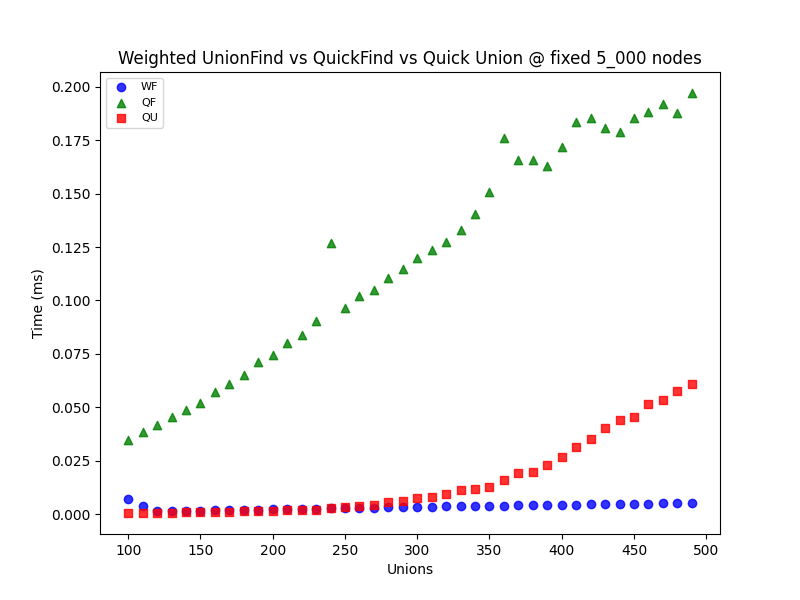
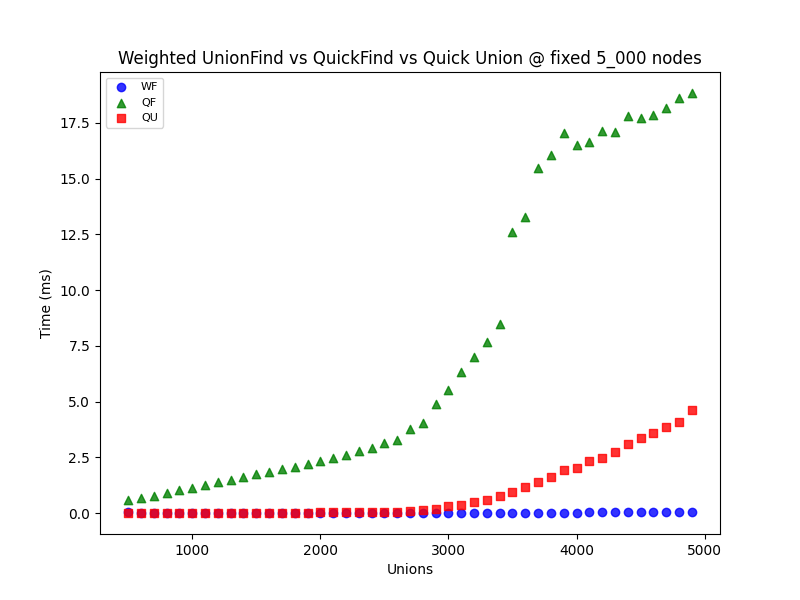
cool shit

diff --git a/A01/src/race/qfFixedRace.java b/A01/src/race/qfFixedRace.java
@@ -34,15 +34,15 @@ public class qfFixedRace {
         
         
         Plotter<Integer, Double> pltWF = new Plotter<>("uf/WUF_"+SIZE+".png", "Unions", "Time (ms)", plt.getType(),"Weighted Union Find @ fixed "+SIZE+" nodes");
-        Double[] times = runWF(SIZE, STEPS, START, unions,pltWF);
+        Double[] times = runWF(SIZE, unions, pltWF);
         plt.add(unions, times, "WF");
 
         Plotter<Integer, Double> pltQF = new Plotter<>("uf/QF_"+SIZE+".png", "Unions", "Time (ms)", plt.getType(),"Quick Find @ fixed "+SIZE+" nodes");
-        times = runQF(SIZE, STEPS, START, unions, pltQF);
+        times = runQF(SIZE, unions, pltQF);
         plt.add(unions, times, "QF");
 
         Plotter<Integer, Double> pltQU = new Plotter<>("uf/QU_"+SIZE+".png", "Unions", "Time (ms)", plt.getType(),"Quick Union @ fixed "+SIZE+" nodes");
-        times = runQU(SIZE, STEPS, START, unions, pltQU);
+        times = runQU(SIZE,unions, pltQU);
         plt.add(unions, times, "QU");
 
         plt.plot();
@@ -64,12 +64,12 @@ public class qfFixedRace {
         System.out.println("\nGraphing Weighted Union Find versus Quick Find at fixed sized "+SIZE+" for varying numbers of Unions");
         
         
-        Plotter<Integer, Double> pltWF = new Plotter<>("uf/WUF_"+SIZE+".png", "Unions", "Time (ms)", plt.getType(),"Weighted Union Find @ fixed "+SIZE+" nodes");
-        Double[] times = runWF(SIZE, STEPS, START, unions,pltWF);
+        Plotter<Integer, Double> pltWF = new Plotter<>("uf/WUF_"+SIZE+".png", "Unions", "Time (ms)", Plotter.Type.LINEAR,"Weighted Union Find @ fixed "+SIZE+" nodes");
+        Double[] times = runWF(SIZE, unions, pltWF);
         plt.add(unions, times, "WF");
 
-        Plotter<Integer, Double> pltQF = new Plotter<>("uf/QF_"+SIZE+".png", "Unions", "Time (ms)", plt.getType(),"Quick Find @ fixed "+SIZE+" nodes");
-        times = runQF(SIZE, STEPS, START, unions,pltQF);
+        Plotter<Integer, Double> pltQF = new Plotter<>("uf/QF_"+SIZE+".png", "Unions", "Time (ms)", Plotter.Type.NONE,"Quick Find @ fixed "+SIZE+" nodes");
+        times = runQF(SIZE, unions, pltQF);
         plt.add(unions, times, "QF");
 
         plt.plot();
@@ -90,12 +90,12 @@ public class qfFixedRace {
         System.out.println("\nGraphing Weighted Union Find versus Quick Find at fixed sized "+SIZE+" for varying numbers of Unions");
         
         
-        Plotter<Integer, Double> pltQU = new Plotter<>("uf/QU_"+SIZE+".png", "Unions", "Time (ms)", plt.getType(),"Quick Union @ fixed "+SIZE+" nodes");
-        Double[] times = runQU(SIZE, STEPS, START, unions,pltQU);
+        Plotter<Integer, Double> pltQU = new Plotter<>("uf/QU_"+SIZE+".png", "Unions", "Time (ms)", Plotter.Type.NONE,"Quick Union @ fixed "+SIZE+" nodes");
+        Double[] times = runQU(SIZE, unions, pltQU);
         plt.add(unions, times, "QU");
 
-        Plotter<Integer, Double> pltQF = new Plotter<>("uf/QF_"+SIZE+".png", "Unions", "Time (ms)", plt.getType(),"Quick Find @ fixed "+SIZE+" nodes");
-        times = runQF(SIZE, STEPS, START, unions,pltQF);
+        Plotter<Integer, Double> pltQF = new Plotter<>("uf/QF_"+SIZE+".png", "Unions", "Time (ms)", Plotter.Type.NONE,"Quick Find @ fixed "+SIZE+" nodes");
+        times = runQF(SIZE, unions, pltQF);
         plt.add(unions, times, "QF");
 
         plt.plot();
@@ -117,17 +117,17 @@ public class qfFixedRace {
         
         
         Plotter<Integer, Double> pltQU = new Plotter<>("uf/QU_"+SIZE+".png", "Unions", "Time (ms)", plt.getType(),"Quick Union @ fixed "+SIZE+" nodes");
-        Double[] times = runQU(SIZE, STEPS, START, unions,pltQU);
+        Double[] times = runQU(SIZE, unions, pltQU);
         plt.add(unions, times, "QU");
 
         Plotter<Integer, Double> pltWF = new Plotter<>("uf/WUF_"+SIZE+".png", "Unions", "Time (ms)", plt.getType(),"Weighted Union Find @ fixed "+SIZE+" nodes");
-        times = runWF(SIZE, STEPS, START, unions,pltWF);
+        times = runWF(SIZE, unions,pltWF);
         plt.add(unions, times, "WF");
 
         plt.plot();
     }
 
-    private Double[] runWF(int SIZE, int STEPS, int START, Integer[] unions, Plotter<Integer,Double> plt) {
+    private Double[] runWF(int SIZE, Integer[] unions, Plotter<Integer,Double> plt) {
 
         System.out.println("\nGraphing Weighted Union Find at fixed sized "+SIZE+" for varying numbers of Unions");
         
@@ -141,7 +141,7 @@ public class qfFixedRace {
         return times;
     }
 
-    private Double[] runQF(int SIZE, int STEPS, int START, Integer[] unions, Plotter<Integer,Double> plt) {
+    private Double[] runQF(int SIZE, Integer[] unions, Plotter<Integer,Double> plt) {
 
         System.out.println("\nGraphing Quick Find at fixed sized "+SIZE+" for varying numbers of Unions");
         
@@ -155,24 +155,31 @@ public class qfFixedRace {
         return times;
     }
 
-    private Double[] runQU(int SIZE, int STEPS, int START, Integer[] unions, Plotter<Integer,Double> plt) {
+    public Double[] runQUSubplot(int SIZE, int STEPS, int START, Plotter<Integer,Double> plt) {
+        this.START = START;
+        this.STEPS = STEPS;
+        this.SIZE = SIZE;
+        
+        int arraySize = (SIZE - START) / STEPS; // Calculate the size of the array, rounding down
+        Integer[] unions = new Integer[arraySize];
+
+        for (int i = 0; i < arraySize; i++) {
+            unions[i] = START + i * STEPS;
+        }
+
+        Double[] times = runQU(SIZE, unions, plt);
+        return times;   
+    }
+
+    private Double[] runQU(int SIZE, Integer[] unions, Plotter<Integer,Double> plt) {
 
         System.out.println("\nGraphing Quick Union at fixed sized "+SIZE+" for varying numbers of Unions");
         
         QuickUnion qu = new QuickUnion(SIZE);
-        Double[] times = getUfTimes(unions, qu);
+
+        for(Integer u: unions) System.out.println((u));
         
-        /**
-         
-        Plotter<Integer, Double> QUsubplot = new Plotter<>("uf/QU_subplot_"+SIZE+".png", "Unions", "Time (ms)", plt.getType(),"Quick Union @ fixed "+SIZE+" nodes");
-        int SUBSIZE = ((SIZE - START) / (2*STEPS));
-        Double[] subtimes = new Double[SUBSIZE];
-        Integer[] subunions = new Integer[SUBSIZE];
-        System.arraycopy(times, (SIZE-SUBSIZE), subtimes, 0, SUBSIZE);
-        System.arraycopy(unions, (SIZE-SUBSIZE), subunions, 0, SUBSIZE);
-        QUsubplot.add(subunions, subtimes, "QU");
-        QUsubplot.plot(); 
-         */
+        Double[] times = getUfTimes(unions, qu);
         
         plt.add(unions, times, qu.name);
         qu = null;

diff --git a/A01/src/App.java b/A01/src/App.java
@@ -1,13 +1,13 @@
 package src;
 
-import src.race.kSumRace;
+//import src.race.kSumRace;
 import src.race.qfFixedRace;
 
 public class App {
     public static void main(String[] args) {
         Plotter<Integer, Double> plt;
         qfFixedRace race = new qfFixedRace();
-        kSumRace tsrace = new kSumRace();
+        //kSumRace tsrace = new kSumRace();
     
         
         /**
@@ -19,21 +19,55 @@ public class App {
         Plotter<Integer, Double> plt = new Plotter<>("uf/WUFvsQFvsQU_10_000_max.png", "Unions", "Time (ms)", Plotter.Type.SCATTER,"Weighted UnionFind vs QuickFind vs Quick Union @ fixed 10_000 nodes");
         race = new qfFixedRace();
         race.runAll(10000, 100, 1000, plt);
-        
-        */
+
+
+
 
         plt = new Plotter<>("uf/WUFvsQFvsQU_10_000_max.png", "Unions", "Time (ms)", Plotter.Type.SCATTER,"Weighted UnionFind vs QuickFind vs Quick Union @ fixed 10_000 nodes");
         race.runAll(10000, 100, 1000, plt);
-        plt = new Plotter<>("uf/WUFvsQFvsQU_20_000_max.png", "Unions", "Time (ms)", Plotter.Type.SCATTER,"Weighted UnionFind vs QuickFind vs Quick Union @ fixed 20_000 nodes");
+
+        plt = new Plotter<>("uf/WUFvsQFvsQU_20_000_max.png",
+                             "Unions", "Time (ms)",
+                            Plotter.Type.SCATTER, 
+                            "Weighted UnionFind vs QuickFind vs Quick Union @ fixed 20_000 nodes");
         race.runAll(20000, 200, 1000, plt);
         
-        plt = new Plotter<>("uf/WUFvsQF_10_000_max.png", "Unions", "Time (ms)", Plotter.Type.LINEAR,"Weighted UnionFind vs Quick Find  @ fixed 10_000 nodes");
+
+
+        plt = new Plotter<>("uf/WUFvsQF_10_000_max.png",
+                         "Unions", "Time (ms)",
+                                 Plotter.Type.LINEAR,
+                           "Weighted UnionFind vs Quick Find  @ fixed 10_000 nodes");
+
         race.runWFvQF(10000, 100, 1000, plt);
+
+
+
         plt = new Plotter<>("uf/WUFvsQF_20_000_max.png", "Unions", "Time (ms)", Plotter.Type.LINEAR,"Weighted UnionFind vs Quick Find  @ fixed 20_000 nodes");
         race.runWFvQF(20000, 200, 2000, plt);
 
+        plt = new Plotter<>("uf/WUFvsQFvsQU_5_000_max.png",
+                             "Unions", "Time (ms)",
+                            Plotter.Type.SCATTER, 
+                            "Weighted UnionFind vs QuickFind vs Quick Union @ fixed 5_000 nodes");
+        race.runAll(5000, 100, 500, plt);
         
 
+
+        plt = new Plotter<>("uf/WUFvsQF_5_000_max.png",
+                         "Unions", "Time (ms)",
+                                 Plotter.Type.LINEAR,
+                           "Weighted UnionFind vs Quick Find  @ fixed 5_000 nodes");
+
+        race.runWFvQF(5000, 100, 500, plt);
+        */
+
         
+        plt = new Plotter<>("uf/WUFvsQF_5_000_max.png",
+                                                        "Unions",
+                                                        "Time (ms)",
+                                                        Plotter.Type.NONE,
+                                                        "Weighted Union @ fixed 5_000 nodes");
+        race.runWFvQF(5000, 100, 500, plt);
     }
 }

diff --git a/A01/src/scripts/pyplot.py b/A01/src/scripts/pyplot.py
@@ -50,6 +50,14 @@ def __power_law(x: list[float], y: list[float]) -> tuple[float, float, float]:
     
     return b, a, coefficient
 
+def __log(x: list[float], y: list[float]) -> tuple[float, float, float]:
+    log_y = log2(y)
+    log_x = log2(x)
+    slope, intercept, coefficient = __linear_regression(log_x, log_y)
+    a = 2**intercept  # 2 raised to the power of intercept
+    b = slope
+
+    return b, a, coefficient
 
 def __linear_regression(x: list[float], y: list[float]) -> tuple[float, float, float]:
     """
@@ -89,6 +97,8 @@ def __generate_expected_data(slope: float, intercept:float,x: list[float], plot_
         return [(slope*x_val)+intercept for x_val in x]
     elif plot_type == "Exponential":
         return [intercept*(x_val**slope) for x_val in x]
+    elif plot_type == "Logarithmic":
+        return [intercept*log2(x_val*slope) for x_val in x]
     else:
         return None
 
@@ -101,6 +111,10 @@ def __get_graph_data(x_coords: List[float], y_coords: List[float], type: str) ->
     elif type == "Exponential":
         slope, intercept, r_value = __power_law(x_coords, y_coords)
         equation = fr'$y={intercept:.6f} \cdot x^{{ {slope:.6f} }}$' + '\n' + f'r: {r_value:.3f}'
+
+    elif type == "Logarithmic":
+        slope, intercept, r_value = __power_law(x_coords,y_coords)
+        equation = fr'$y={intercept:.6f} \cdot \log_2({slope:.6f} \cdot x)$' + '\n' + f'r: {r_value}'
 
     elif type == "None" or "Bar" or "Histogram" or "Scatter":
         equation = None
@@ -149,6 +163,8 @@ def graph(graph_path:str, x:  List[List[float]], y: List[List[float]], x_label:s
                 line_graph(ax, x_coords, y_coords, type, markers, count, label)
             case "Histogram":
                 pass
+            case "Logarithmic":
+                line_graph(ax, x_coords, y_coords, type, markers, count, label)
             case "Scatter":
                 scatter(ax, x_coords, y_coords, markers, count, label)
             case "None":

diff --git a/A01/src/Timeit.java b/A01/src/Timeit.java
@@ -19,15 +19,6 @@ public class Timeit {
     }
 
     /**
-     * Change the target method to run/time.
-     * This means not requiring reallocation for new method timing.
-     * @param m
-     */
-    public void setTargetmethod(Consumer<Object[]> m) {
-        this.timedMethod = m;
-    }
-
-    /**
      * Measure the execution of the given method in nanoseconds.
      * @param args
      * @return

diff --git a/A01/src/Util.java b/A01/src/Util.java
@@ -55,15 +55,6 @@ public class Util {
             }
         }
 
-        /**
-         * Round the answer to 4 decimal places arbitrarily.
-         
-        double avg = sum / count;
-        BigDecimal bd = new BigDecimal(avg);
-        bd = bd.round(new MathContext(10));
-        double rounded_avg = bd.doubleValue();
-        */
-
         return count > 0 ? sum / count : 0;
     }
 

diff --git a/A01/src/Plotter.java b/A01/src/Plotter.java
@@ -19,6 +19,7 @@ public class Plotter<T, R> {
         EXPONENTIAL("Exponential"),
         SCATTER("Scatter"),
         HISTOGRAM("Histogram"),
+        LOGARITHMIC("Logarithmic"),
         NONE("None");
 
         private final String type;
